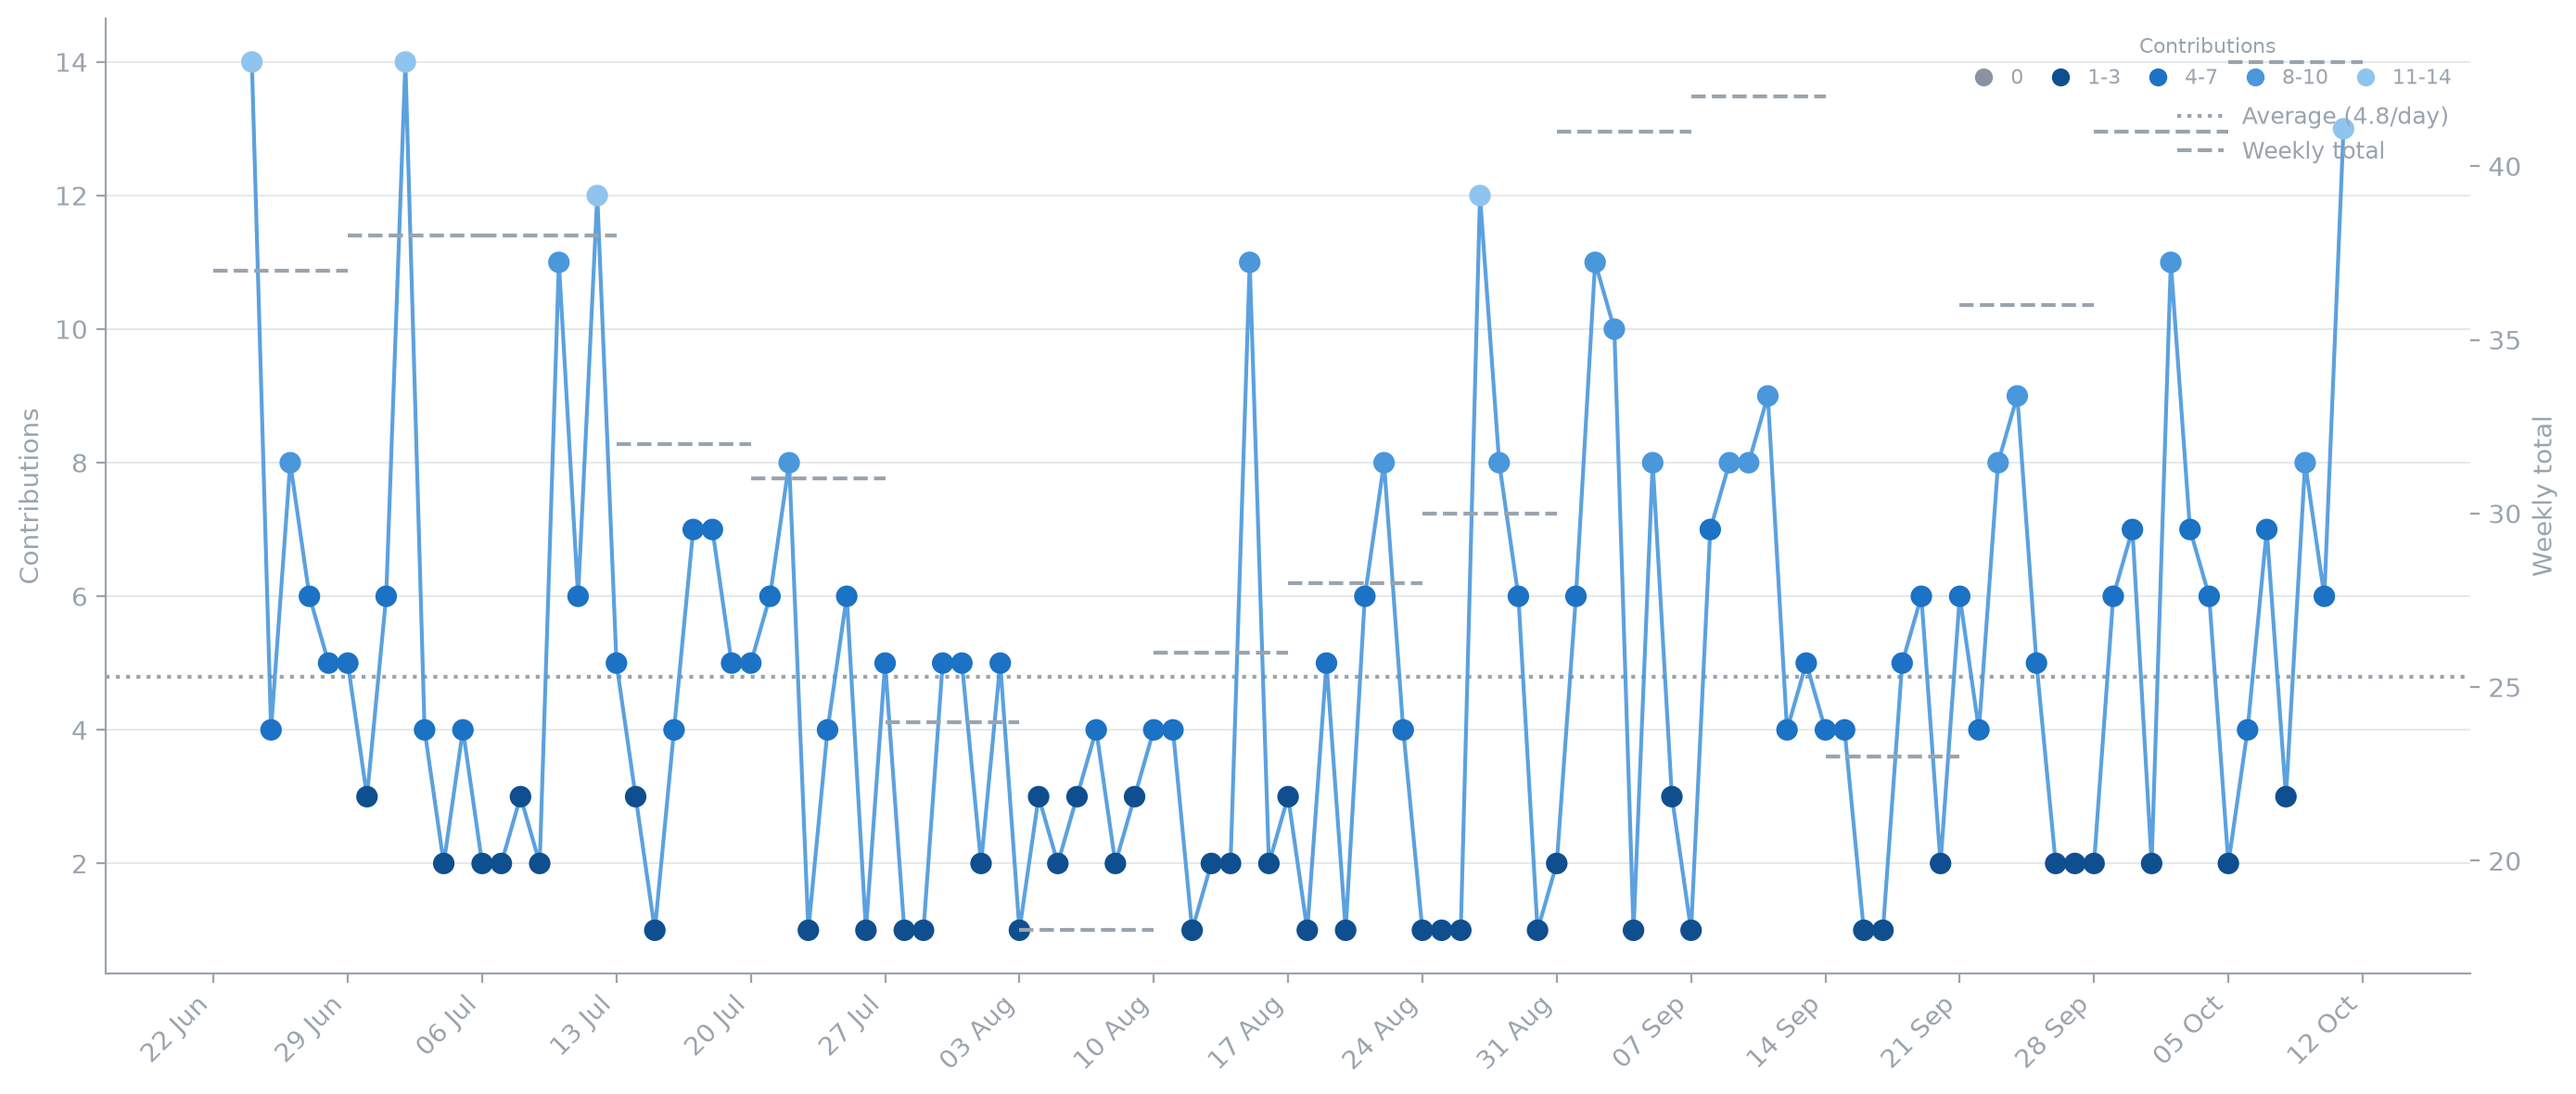
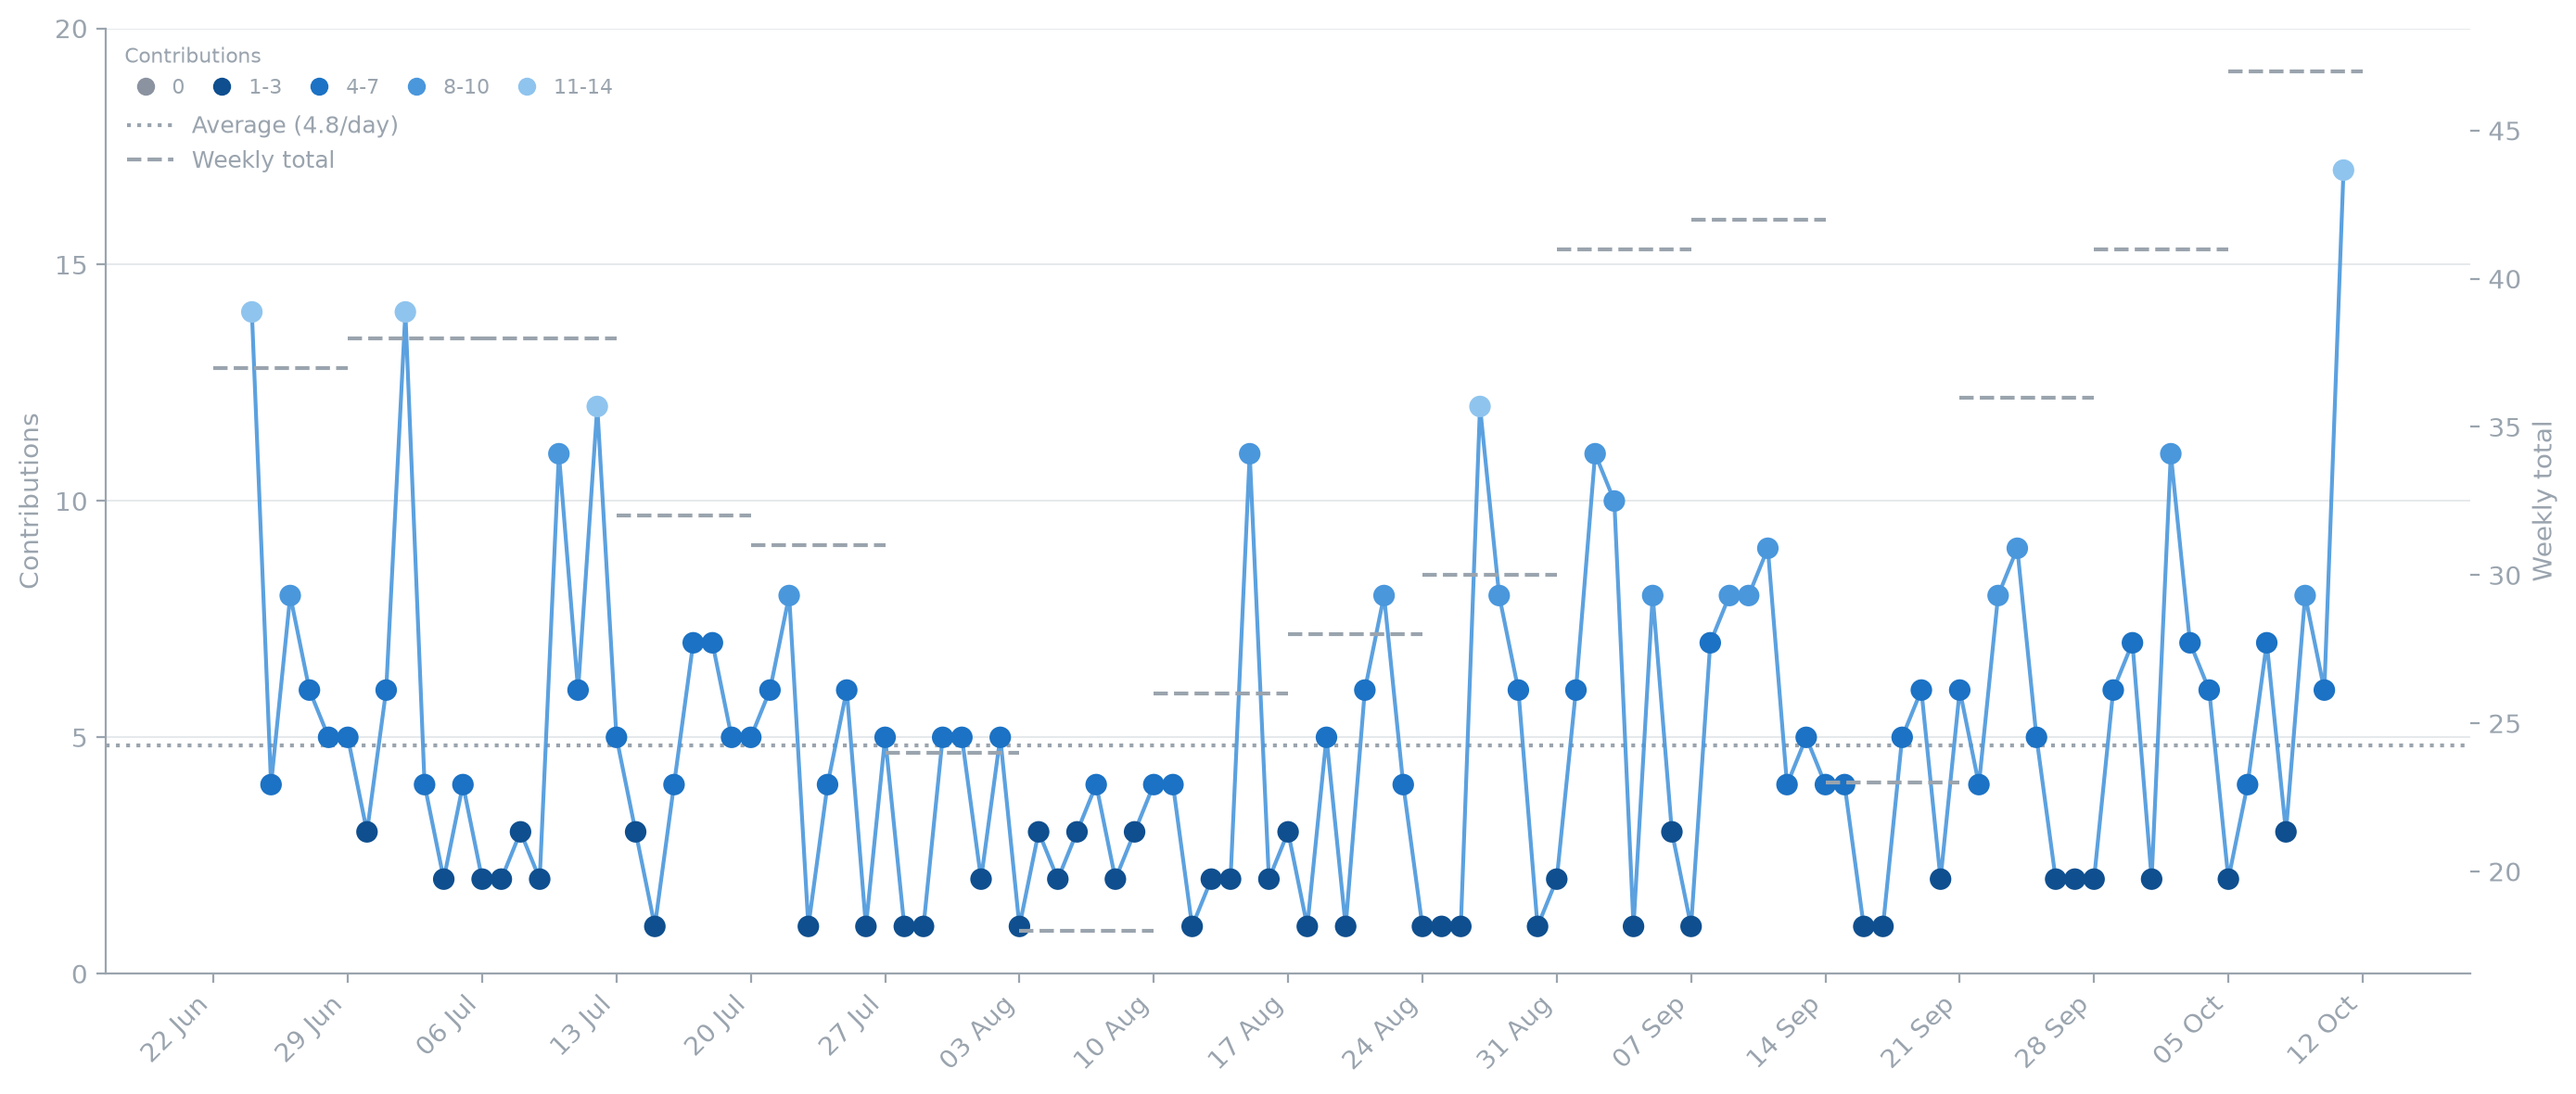
graph design update

diff --git a/contribution_graph/contributions.py b/contribution_graph/contributions.py
@@ -20,6 +20,7 @@ from pathlib import Path
 
 import matplotlib.dates as mdates
 import matplotlib.pyplot as plt
+import matplotlib.ticker as mticker
 import pandas as pd
 
 SCRIPT_DIR = Path(__file__).resolve().parent
@@ -119,6 +120,8 @@ def make_plot(df: pd.DataFrame, out_path: str) -> None:
 
     ax.set_ylabel("Contributions", color=GRID_AXIS_COLOR)
     ax.set_xlabel("")
+    ax.set_ylim(0, 20)
+    ax.yaxis.set_major_locator(mticker.MultipleLocator(5))
 
     # weekly total, dashed step line on its own axis (very different scale)
     ax2 = ax.twinx()
@@ -147,17 +150,17 @@ def make_plot(df: pd.DataFrame, out_path: str) -> None:
     ax.grid(True, axis="y", color=GRID_AXIS_COLOR, alpha=0.25, linewidth=0.7)
     ax.set_axisbelow(True)
 
-    # small level legend, GitHub-style "Less -> More", top right
+    # small level legend, GitHub-style "Less -> More", top left
     handles = [
         plt.Line2D([0], [0], marker="o", linestyle="", markersize=7,
                    markerfacecolor=LEVEL_COLORS[i], markeredgecolor="none")
         for i in range(5)
     ]
     level_legend = ax.legend(
-        handles, LEVEL_LABELS, loc="upper right", frameon=False,
+        handles, LEVEL_LABELS, loc="upper left", frameon=False,
         labelcolor=GRID_AXIS_COLOR, fontsize=8, ncol=5,
         columnspacing=0.8, handletextpad=0.3, title="Contributions",
-        title_fontsize=8, bbox_to_anchor=(1, 1),
+        title_fontsize=8, bbox_to_anchor=(0, 1), alignment="left",
     )
     level_legend.get_title().set_color(GRID_AXIS_COLOR)
     ax.add_artist(level_legend)
@@ -167,8 +170,8 @@ def make_plot(df: pd.DataFrame, out_path: str) -> None:
     lines2, labels2 = ax2.get_legend_handles_labels()
     ax.legend(
         lines1 + lines2, labels1 + labels2,
-        loc="upper right", frameon=False, labelcolor=GRID_AXIS_COLOR,
-        fontsize=9, bbox_to_anchor=(1, 0.93),
+        loc="upper left", frameon=False, labelcolor=GRID_AXIS_COLOR,
+        fontsize=9, bbox_to_anchor=(0, 0.93),
     )
 
     fig.tight_layout()
